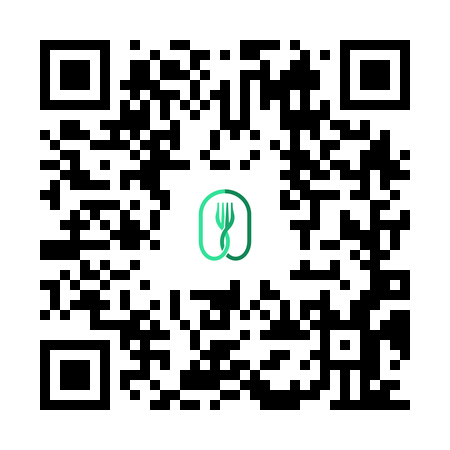
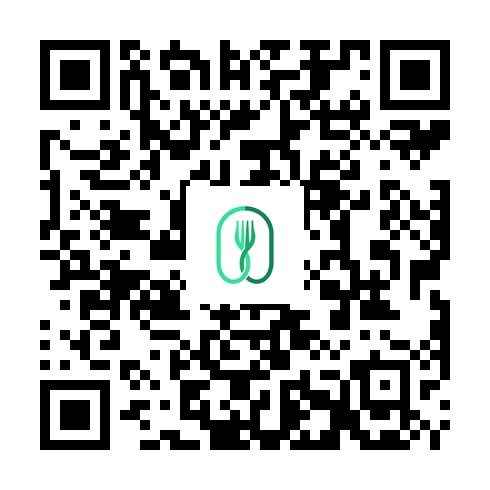
Update iOS download link to App Store
Replace coming-soon link with live App Store URL and update QR code

diff --git a/index.html b/index.html
@@ -402,12 +402,12 @@
             <div class="download-section">
                 <h2 class="section-title">Download Now</h2>
                 <div class="download-options">
-                    <a href="https://www.recipe-ai.io/coming-soon" class="download-card">
+                    <a href="https://apps.apple.com/us/app/recipeai-plus/id6756966314" class="download-card" target="_blank" rel="noopener noreferrer">
                         <div class="qr-code">
-                            <img src="qr-ios.png" alt="iOS Coming Soon QR Code" />
+                            <img src="qr-ios.png" alt="App Store QR Code" />
                         </div>
                         <img src="https://upload.wikimedia.org/wikipedia/commons/3/3c/Download_on_the_App_Store_Badge.svg"
-                             alt="Coming Soon on App Store"
+                             alt="Download on the App Store"
                              class="store-badge">
                     </a>
 
